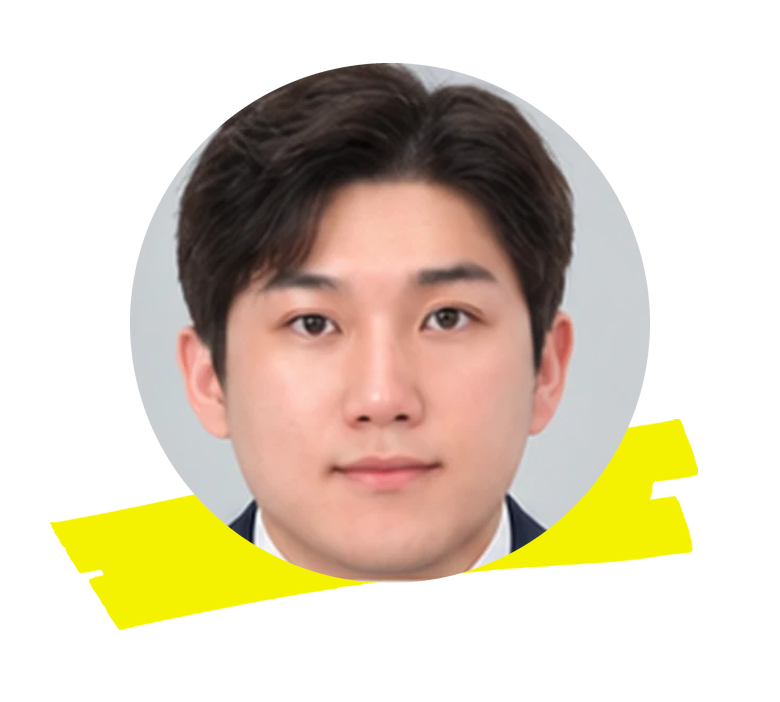
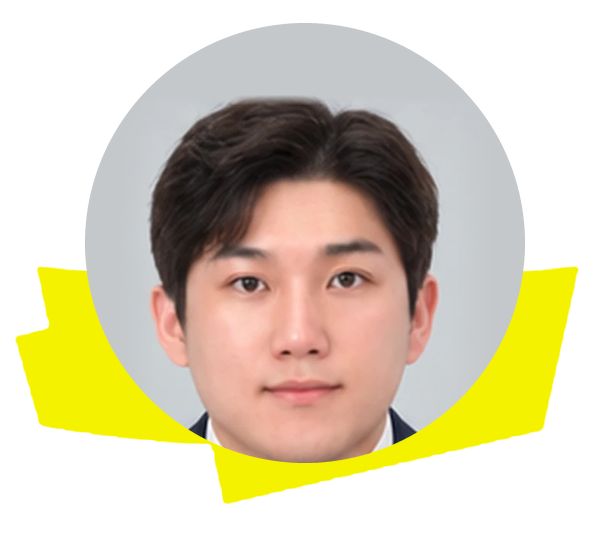
브러시 프레임 프로필: 노션 원본 칠을 그대로 쓰고 색만 노랑, 얼굴 86%·원 테두리 틈 제거
Claude-Session: https://claude.ai/code/session_01AMh7xoXiuzDvjCLxYCuX6F

diff --git a/reports/work-roma-spider.md b/reports/work-roma-spider.md
@@ -229,8 +229,11 @@ r12는 **86점 / 100점**(r11 79점에서 +7)이다. 숫자 위치, ✓ 목록, 
 
 ## 브러시 프레임 프로필 — 딜러 얼굴 원형 + 노랑 붓칠 (2026-11-24)
 - 근거: 노션 「스카우트24 테마별」 › 브러시 프레임 프로필(Brush Frame Portrait) 150×150 · 158×142(임모스카우트24), 「BE 사용: 노랑이면 사용」 → 칠은 #F5F200만.
-- 코드: `scripts/shortform/brush_frame_portrait.py` — 사진을 정사각·원형으로만 자름(보정 없음), 연회색 원판, 원 뒤 아래 1/3에 노션 원본 붓칠(325_76, 같은 배율) 반시계 6°. 끝 화면 시안 1080×1920 + 3초 움직임(원 톡 → 칠 왼→오 → 이름 올라옴).
+- 코드: `scripts/shortform/brush_frame_portrait.py` — 사진을 정사각·원형으로만 자름(보정 없음). 끝 화면 시안 1080×1920 + 3초 움직임(원 톡 → 칠 왼→오 → 이름 올라옴).
+- 2차(사용자 「원본 써라고. 색만 바꿔봐. 얼굴 좀 더 작게 밸런스」): 다른 붓칠(325_76)로 다시 그리던 것을 버리고, 노션 원본 PNG(`public/assets/shortform/brush-frame-portrait/`, 수정 없음)의 민트 칠을 그대로 떼어 색만 노랑으로 바꿈. 모양·자리·기울기 원본 그대로. 원 자리(중심 81·64.5, 지름 117)에 딜러 사진, 얼굴은 원 지름의 86%로 줄여 아래 맞춤. 원과 칠 사이 틈은 원 안쪽 4px에서 바깥 칠을 이어 받아 없앰.
 - 번호판을 칠·이름이 덮지 않게 배지 윗선 300, 이름 줄 1220(로마 원본 번호판 y 1080~1160).
 - 사진: 저장소의 서울오토갤러리 딜러 프로필(`seoul-auto-gallery-formal-ai/450551-1.webp`) — 폴더 이름대로 AI 정장 프로필이라 실제 본인 사진으로 바꿔야 함.
+
+![원본 대 우리](work-roma-spider/brush_frame_orig_vs_ours.png)
 
 ![배지](work-roma-spider/brush_frame_badge.png) ![끝 화면](work-roma-spider/brush_frame_card.png)

diff --git a/public/assets/shortform/brush-frame-portrait/README.md b/public/assets/shortform/brush-frame-portrait/README.md
@@ -1,0 +1,5 @@
+# 브러시 프레임 프로필 원본
+
+- `as24_0701_brush_frame_portrait.png` — 노션 「스카우트24 테마별」 › 브러시 프레임 프로필(Brush Frame Portrait)_민트_158x142 (임모스카우트24 /umzug/). 2026-11-24 받음. **파일은 한 글자도 고치지 않았다.**
+- 쓰는 법(`scripts/shortform/brush_frame_portrait.py`): 이 원본의 민트 칠을 그대로 떼어 색만 노랑 #F5F200으로 바꾸고(「BE 사용: 노랑이면 사용」), 원 자리(중심 x 81 · y 64.5, 지름 117)에 딜러 사진을 넣는다. 칠 모양·자리·기울기는 원본 그대로.
+- 원본 크기가 작아(158×142) 키울 때 칠 가장자리만 다시 날카롭게 맞춘다(모양은 그대로).
